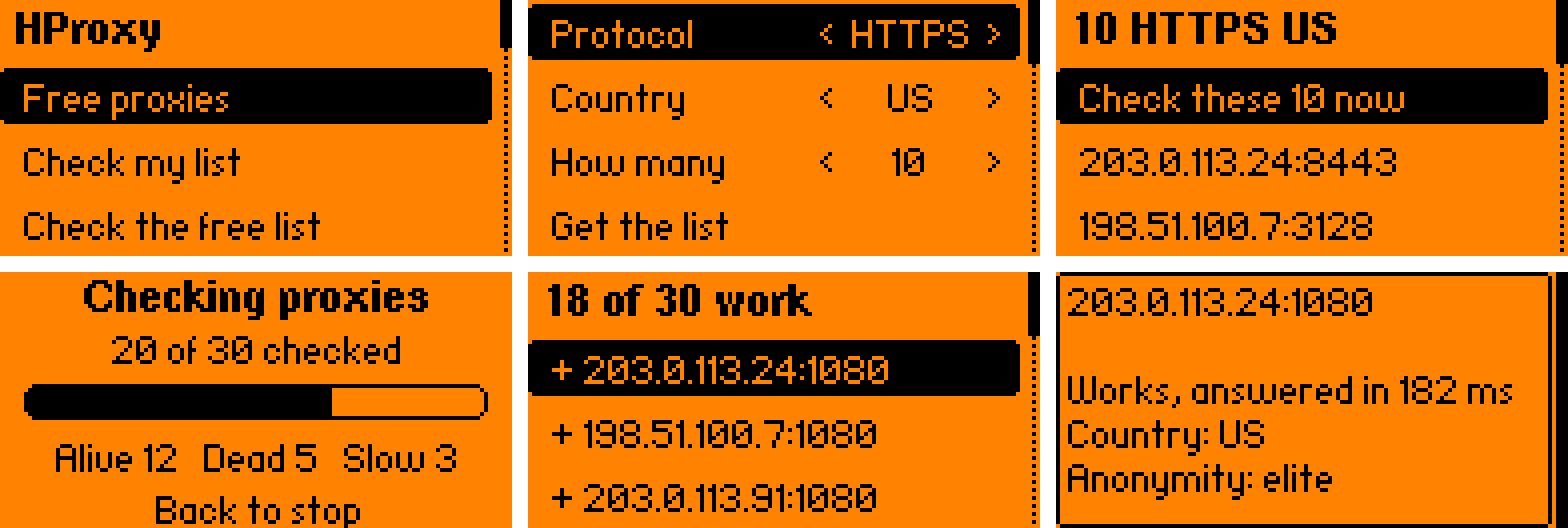
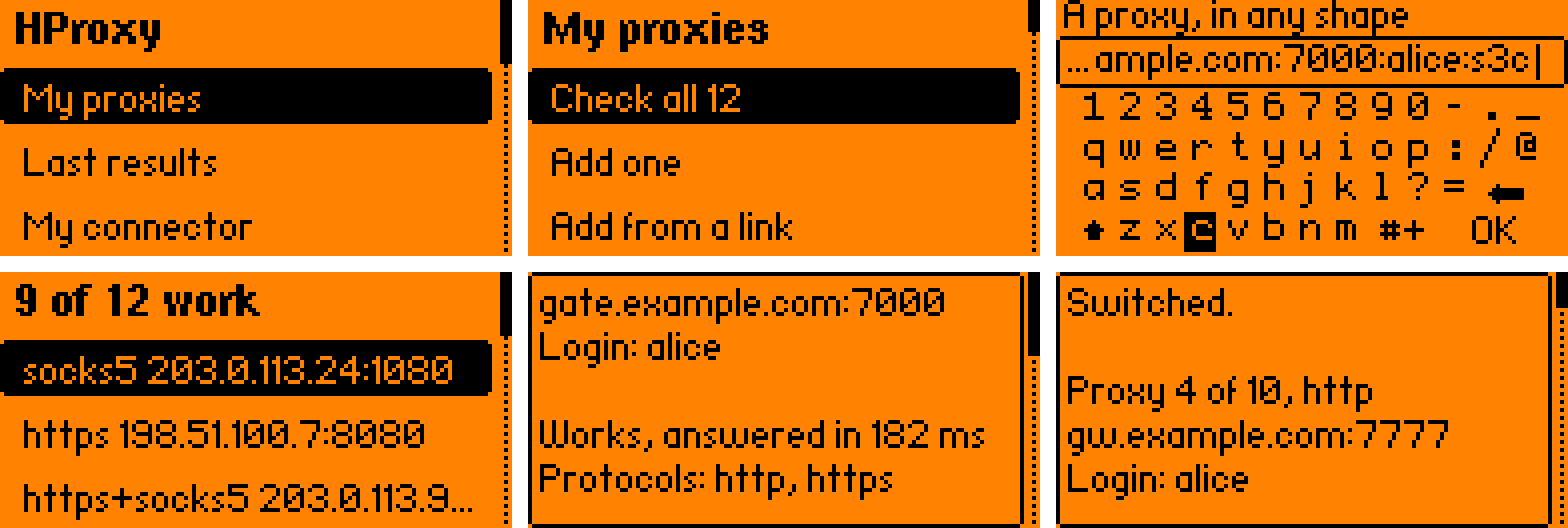
Your own proxies first: the quick start checks your list, the cloud and NAS examples start from it, and the Flipper app 1.1 in Made for every tool
The free pool stays one line away in each place. The Flipper picture shows the new app: your list, a keyboard with every character, results with the protocol that answered, New IP from the Flipper.

diff --git a/README.md b/README.md
@@ -36,11 +36,11 @@
 
 ## Made for every tool
 
-<p align="center"><a href="https://github.com/hproxy-com/flipper-zero-app"><img src="assets/flipper-zero.png" alt="HProxy on a Flipper Zero: the menu, the free-list options, a free list from hproxy.com, a check in progress, the results fastest first, one proxy in detail" width="784"></a></p>
+<p align="center"><a href="https://github.com/hproxy-com/flipper-zero-app"><img src="assets/flipper-zero.png" alt="HProxy on a Flipper Zero: the menu, your list, a keyboard with every character, the results with the protocol that answered, one proxy in detail, and New IP from the Flipper" width="784"></a></p>
 
 | Where | What you get |
 | --- | --- |
-| **[Flipper Zero](https://github.com/hproxy-com/flipper-zero-app)** | Free proxies from hproxy.com and a checker on the Flipper, over a WiFi board running FlipperHTTP. Above: its screens, drawn pixel for pixel by the firmware's own fonts and code |
+| **[Flipper Zero](https://github.com/hproxy-com/flipper-zero-app)** | Your own proxies on the Flipper: add any kind (typed, from a link, from a file), see which protocols answer, and New IP on your rotator, over a WiFi board running FlipperHTTP. Above: its screens, drawn pixel for pixel by the firmware's own fonts and code |
 | **[Home Assistant](https://github.com/hproxy-com/home-assistant-addons)** | A rotating proxy for your whole home network, with a New IP button on the dashboard |
 | **[GitHub Actions](https://github.com/hproxy-com/setup-hproxy)** | A rotating proxy for a CI job, which a later step switches with one `curl` |
 | **[Docker, Kubernetes, AWS](Docker/)** | The rotator beside your app on `127.0.0.1`, on six processor types, with the proxy kept in a secret |
@@ -75,10 +75,10 @@ its version), built by this repository's own workflow from [source-code](source-
 The same tool with Homebrew (`brew install hproxy-com/tap/hproxy`), with Scoop
 (`scoop bucket add hproxy https://github.com/hproxy-com/scoop-bucket`, then
 `scoop install hproxy/hproxy`), and as a container for Docker, Kubernetes and the clouds
-(`docker run --rm ghcr.io/hproxy-com/hproxy list`, [more](Docker/)). Then:
+(`docker run --rm ghcr.io/hproxy-com/hproxy check "host:port:user:pass"`, [more](Docker/)). Then:
 
 ```sh
-hproxy list --protocol socks5 | hproxy check --first 5 --alive   # 5 free SOCKS5 that work here
+hproxy check --file proxies.txt --alive                         # which of your proxies work, from here
 hproxy ip 8.8.8.8                                               # where an address is
 hproxy mcp                                                      # the same tools for an AI assistant
 ```

diff --git a/Docker/README.md b/Docker/README.md
@@ -132,20 +132,9 @@ spec:
 ```
 
 Amazon ECS and Fargate, in the task definition's `containerDefinitions`, beside your app, whose
-`HTTPS_PROXY` is then `http://127.0.0.1:8080`:
-
-```json
-{
-  "name": "hproxy",
-  "image": "ghcr.io/hproxy-com/hproxy:0.4.9",
-  "essential": true,
-  "command": ["free", "--country", "US"]
-}
-```
-
-For a proxy of your own, keep its line in AWS Secrets Manager and hand it over as `HPROXY_PROXY`:
-`connect` takes it from there when its command names no proxy, so the password never appears in the
-task definition.
+`HTTPS_PROXY` is then `http://127.0.0.1:8080`. Keep your proxy's line in AWS Secrets Manager and
+hand it over as `HPROXY_PROXY`: `connect` takes it from there when its command names no proxy, so the
+password never appears in the task definition.
 
 ```json
 {
@@ -156,6 +145,8 @@ task definition.
   "secrets": [{ "name": "HPROXY_PROXY", "valueFrom": "arn:aws:secretsmanager:<region>:<account>:secret:<name>" }]
 }
 ```
+
+The free HProxy pool needs no secret: `"command": ["free", "--country", "US"]`.
 
 A whole list works the same way with `HPROXY_PROXY_FILE`, the path of a mounted file. Your app,
 beside it on `127.0.0.1`, can switch it with `POST http://127.0.0.1:8080/hproxy/new-ip`. A task on
@@ -171,9 +162,11 @@ curl -fsSL https://hproxy.com/install.sh | sh
 ## NAS and home servers
 
 Synology (Container Manager), QNAP (Container Station), Unraid, TrueNAS SCALE, or Docker on a
-Raspberry Pi: create a container from `ghcr.io/hproxy-com/hproxy:latest` with the command
-`free --listen 0.0.0.0:8080 --allow-lan` (or your own list, as above), map port 8080, and keep that
-port inside your home network.
+Raspberry Pi: create a container from `ghcr.io/hproxy-com/hproxy:latest` with your list mounted at
+`/proxies.txt` and the command `connect --file /proxies.txt --listen 0.0.0.0:8080 --allow-lan`
+(`free --listen 0.0.0.0:8080 --allow-lan` for the free pool), map port 8080, and keep that port
+inside your home network. A [Flipper Zero](https://github.com/hproxy-com/flipper-zero-app) on the same
+network can then switch it to the next proxy.
 
 ## For AI assistants
 
